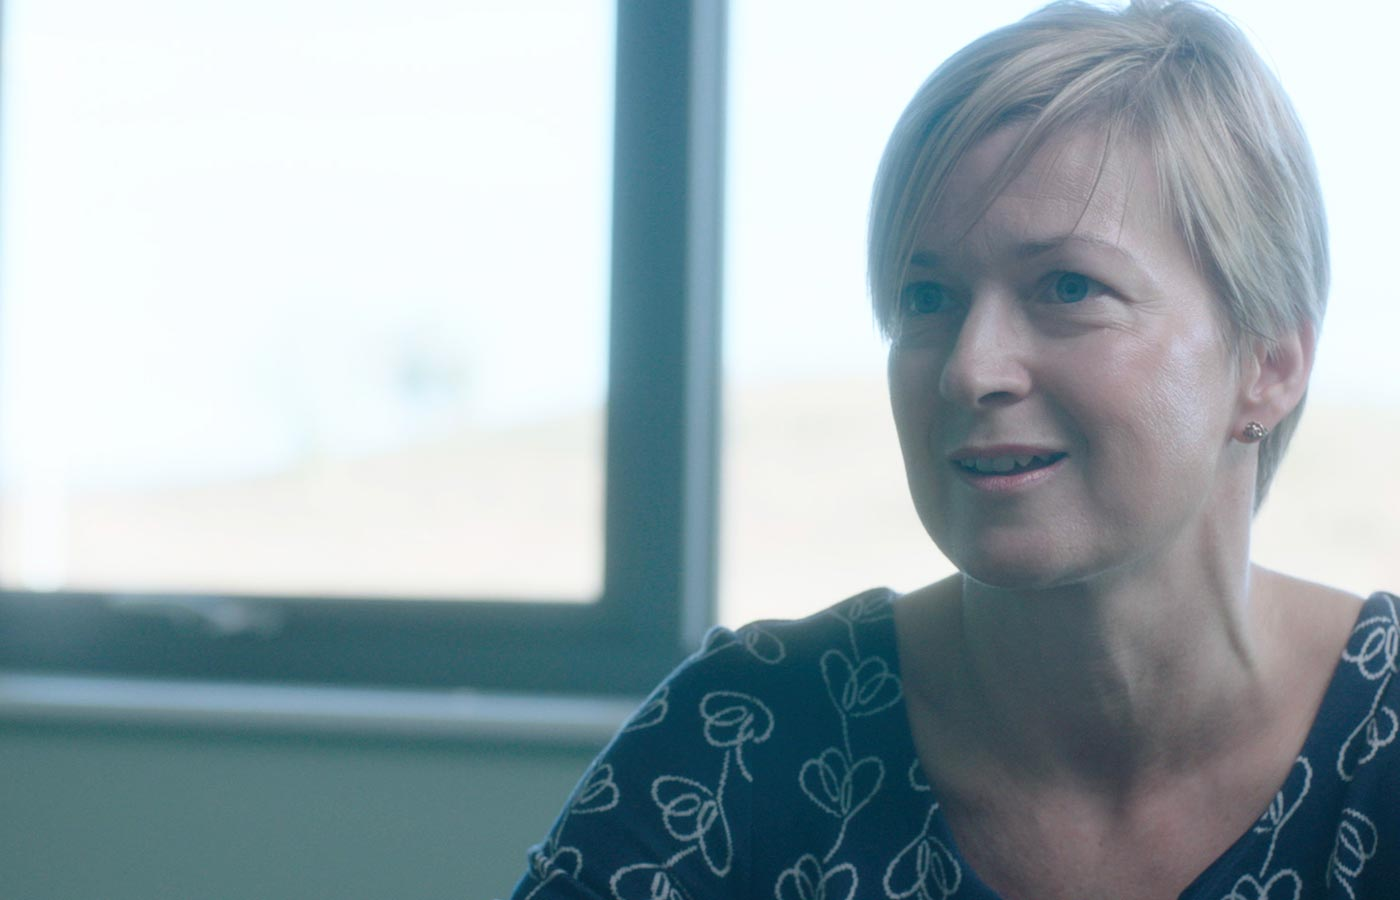
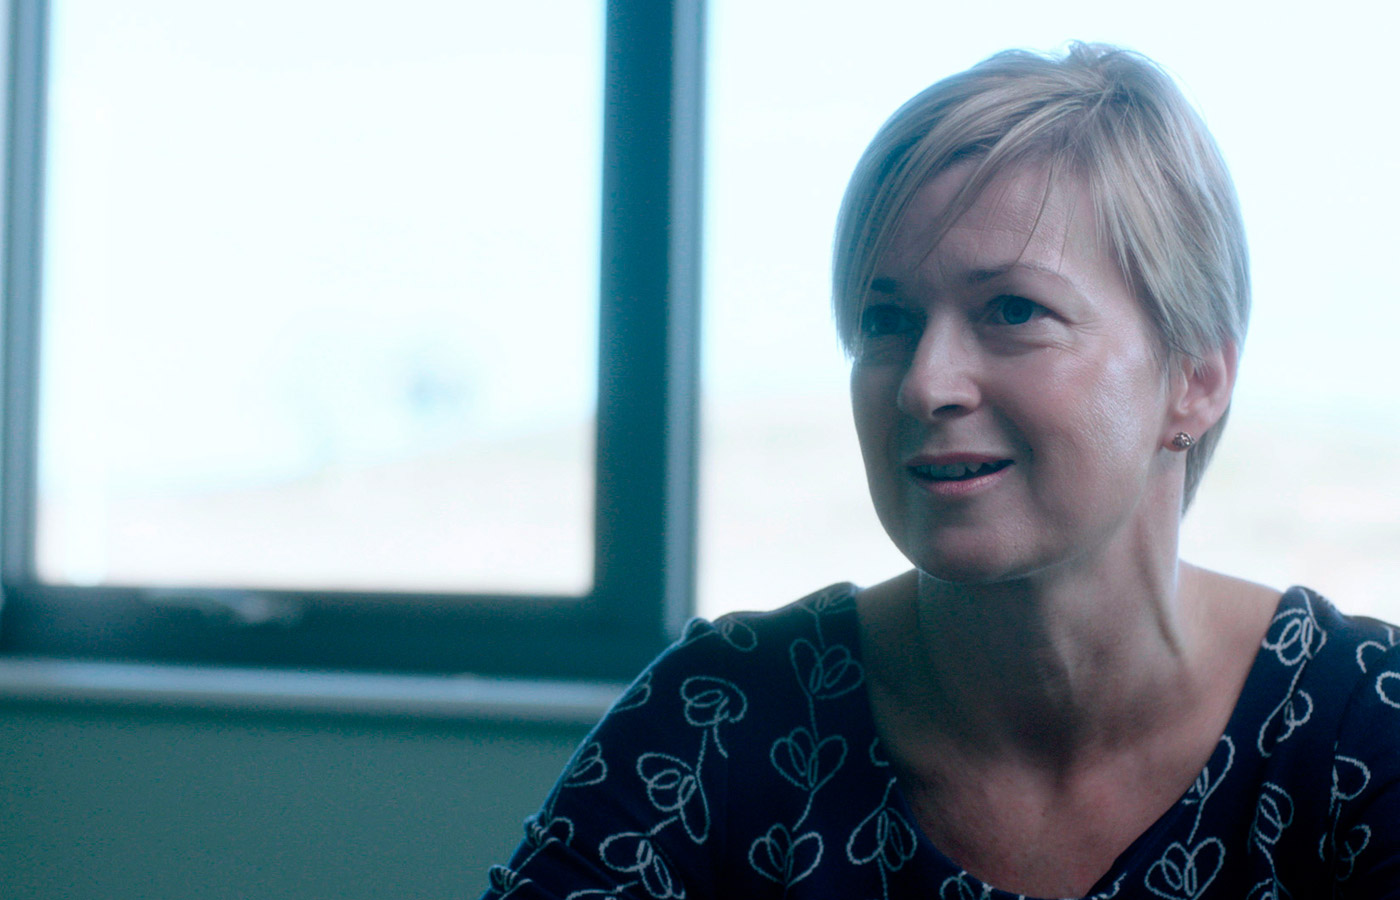
updates imagery, adds additional employe-laura imagery and styles

diff --git a/dist/campaign/js/app.min.js b/dist/campaign/js/app.min.js
@@ -1,6 +1,3 @@
-/*! modernizr 3.6.0 (Custom Build) | MIT *
- * https://modernizr.com/download/?-cssmask-setclasses !*/
-!function(e,n,t){function r(e,n){return typeof e===n}function o(){var e,n,t,o,s,i,l;for(var a in S)if(S.hasOwnProperty(a)){if(e=[],n=S[a],n.name&&(e.push(n.name.toLowerCase()),n.options&&n.options.aliases&&n.options.aliases.length))for(t=0;t<n.options.aliases.length;t++)e.push(n.options.aliases[t].toLowerCase());for(o=r(n.fn,"function")?n.fn():n.fn,s=0;s<e.length;s++)i=e[s],l=i.split("."),1===l.length?Modernizr[l[0]]=o:(!Modernizr[l[0]]||Modernizr[l[0]]instanceof Boolean||(Modernizr[l[0]]=new Boolean(Modernizr[l[0]])),Modernizr[l[0]][l[1]]=o),C.push((o?"":"no-")+l.join("-"))}}function s(e){var n=_.className,t=Modernizr._config.classPrefix||"";if(x&&(n=n.baseVal),Modernizr._config.enableJSClass){var r=new RegExp("(^|\\s)"+t+"no-js(\\s|$)");n=n.replace(r,"$1"+t+"js$2")}Modernizr._config.enableClasses&&(n+=" "+t+e.join(" "+t),x?_.className.baseVal=n:_.className=n)}function i(e,n){return!!~(""+e).indexOf(n)}function l(){return"function"!=typeof n.createElement?n.createElement(arguments[0]):x?n.createElementNS.call(n,"http://www.w3.org/2000/svg",arguments[0]):n.createElement.apply(n,arguments)}function a(e){return e.replace(/([a-z])-([a-z])/g,function(e,n,t){return n+t.toUpperCase()}).replace(/^-/,"")}function u(e,n){return function(){return e.apply(n,arguments)}}function f(e,n,t){var o;for(var s in e)if(e[s]in n)return t===!1?e[s]:(o=n[e[s]],r(o,"function")?u(o,t||n):o);return!1}function c(e){return e.replace(/([A-Z])/g,function(e,n){return"-"+n.toLowerCase()}).replace(/^ms-/,"-ms-")}function p(n,t,r){var o;if("getComputedStyle"in e){o=getComputedStyle.call(e,n,t);var s=e.console;if(null!==o)r&&(o=o.getPropertyValue(r));else if(s){var i=s.error?"error":"log";s[i].call(s,"getComputedStyle returning null, its possible modernizr test results are inaccurate")}}else o=!t&&n.currentStyle&&n.currentStyle[r];return o}function d(){var e=n.body;return e||(e=l(x?"svg":"body"),e.fake=!0),e}function m(e,t,r,o){var s,i,a,u,f="modernizr",c=l("div"),p=d();if(parseInt(r,10))for(;r--;)a=l("div"),a.id=o?o[r]:f+(r+1),c.appendChild(a);return s=l("style"),s.type="text/css",s.id="s"+f,(p.fake?p:c).appendChild(s),p.appendChild(c),s.styleSheet?s.styleSheet.cssText=e:s.appendChild(n.createTextNode(e)),c.id=f,p.fake&&(p.style.background="",p.style.overflow="hidden",u=_.style.overflow,_.style.overflow="hidden",_.appendChild(p)),i=t(c,e),p.fake?(p.parentNode.removeChild(p),_.style.overflow=u,_.offsetHeight):c.parentNode.removeChild(c),!!i}function y(n,r){var o=n.length;if("CSS"in e&&"supports"in e.CSS){for(;o--;)if(e.CSS.supports(c(n[o]),r))return!0;return!1}if("CSSSupportsRule"in e){for(var s=[];o--;)s.push("("+c(n[o])+":"+r+")");return s=s.join(" or "),m("@supports ("+s+") { #modernizr { position: absolute; } }",function(e){return"absolute"==p(e,null,"position")})}return t}function v(e,n,o,s){function u(){c&&(delete N.style,delete N.modElem)}if(s=r(s,"undefined")?!1:s,!r(o,"undefined")){var f=y(e,o);if(!r(f,"undefined"))return f}for(var c,p,d,m,v,g=["modernizr","tspan","samp"];!N.style&&g.length;)c=!0,N.modElem=l(g.shift()),N.style=N.modElem.style;for(d=e.length,p=0;d>p;p++)if(m=e[p],v=N.style[m],i(m,"-")&&(m=a(m)),N.style[m]!==t){if(s||r(o,"undefined"))return u(),"pfx"==n?m:!0;try{N.style[m]=o}catch(h){}if(N.style[m]!=v)return u(),"pfx"==n?m:!0}return u(),!1}function g(e,n,t,o,s){var i=e.charAt(0).toUpperCase()+e.slice(1),l=(e+" "+P.join(i+" ")+i).split(" ");return r(n,"string")||r(n,"undefined")?v(l,n,o,s):(l=(e+" "+z.join(i+" ")+i).split(" "),f(l,n,t))}function h(e,n,r){return g(e,t,t,n,r)}var C=[],S=[],w={_version:"3.6.0",_config:{classPrefix:"",enableClasses:!0,enableJSClass:!0,usePrefixes:!0},_q:[],on:function(e,n){var t=this;setTimeout(function(){n(t[e])},0)},addTest:function(e,n,t){S.push({name:e,fn:n,options:t})},addAsyncTest:function(e){S.push({name:null,fn:e})}},Modernizr=function(){};Modernizr.prototype=w,Modernizr=new Modernizr;var _=n.documentElement,x="svg"===_.nodeName.toLowerCase(),b="Moz O ms Webkit",P=w._config.usePrefixes?b.split(" "):[];w._cssomPrefixes=P;var z=w._config.usePrefixes?b.toLowerCase().split(" "):[];w._domPrefixes=z;var E={elem:l("modernizr")};Modernizr._q.push(function(){delete E.elem});var N={style:E.elem.style};Modernizr._q.unshift(function(){delete N.style}),w.testAllProps=g,w.testAllProps=h,Modernizr.addTest("cssmask",h("maskRepeat","repeat-x",!0)),o(),s(C),delete w.addTest,delete w.addAsyncTest;for(var k=0;k<Modernizr._q.length;k++)Modernizr._q[k]();e.Modernizr=Modernizr}(window,document);
 
 var headers = document.getElementsByClassName("header"),
     header = headers[0];
@@ -20,3 +17,7 @@ function activeHeader() {
     header.className = "header";
   }
 }
+
+/*! modernizr 3.6.0 (Custom Build) | MIT *
+ * https://modernizr.com/download/?-cssmask-setclasses !*/
+!function(e,n,t){function r(e,n){return typeof e===n}function o(){var e,n,t,o,s,i,l;for(var a in S)if(S.hasOwnProperty(a)){if(e=[],n=S[a],n.name&&(e.push(n.name.toLowerCase()),n.options&&n.options.aliases&&n.options.aliases.length))for(t=0;t<n.options.aliases.length;t++)e.push(n.options.aliases[t].toLowerCase());for(o=r(n.fn,"function")?n.fn():n.fn,s=0;s<e.length;s++)i=e[s],l=i.split("."),1===l.length?Modernizr[l[0]]=o:(!Modernizr[l[0]]||Modernizr[l[0]]instanceof Boolean||(Modernizr[l[0]]=new Boolean(Modernizr[l[0]])),Modernizr[l[0]][l[1]]=o),C.push((o?"":"no-")+l.join("-"))}}function s(e){var n=_.className,t=Modernizr._config.classPrefix||"";if(x&&(n=n.baseVal),Modernizr._config.enableJSClass){var r=new RegExp("(^|\\s)"+t+"no-js(\\s|$)");n=n.replace(r,"$1"+t+"js$2")}Modernizr._config.enableClasses&&(n+=" "+t+e.join(" "+t),x?_.className.baseVal=n:_.className=n)}function i(e,n){return!!~(""+e).indexOf(n)}function l(){return"function"!=typeof n.createElement?n.createElement(arguments[0]):x?n.createElementNS.call(n,"http://www.w3.org/2000/svg",arguments[0]):n.createElement.apply(n,arguments)}function a(e){return e.replace(/([a-z])-([a-z])/g,function(e,n,t){return n+t.toUpperCase()}).replace(/^-/,"")}function u(e,n){return function(){return e.apply(n,arguments)}}function f(e,n,t){var o;for(var s in e)if(e[s]in n)return t===!1?e[s]:(o=n[e[s]],r(o,"function")?u(o,t||n):o);return!1}function c(e){return e.replace(/([A-Z])/g,function(e,n){return"-"+n.toLowerCase()}).replace(/^ms-/,"-ms-")}function p(n,t,r){var o;if("getComputedStyle"in e){o=getComputedStyle.call(e,n,t);var s=e.console;if(null!==o)r&&(o=o.getPropertyValue(r));else if(s){var i=s.error?"error":"log";s[i].call(s,"getComputedStyle returning null, its possible modernizr test results are inaccurate")}}else o=!t&&n.currentStyle&&n.currentStyle[r];return o}function d(){var e=n.body;return e||(e=l(x?"svg":"body"),e.fake=!0),e}function m(e,t,r,o){var s,i,a,u,f="modernizr",c=l("div"),p=d();if(parseInt(r,10))for(;r--;)a=l("div"),a.id=o?o[r]:f+(r+1),c.appendChild(a);return s=l("style"),s.type="text/css",s.id="s"+f,(p.fake?p:c).appendChild(s),p.appendChild(c),s.styleSheet?s.styleSheet.cssText=e:s.appendChild(n.createTextNode(e)),c.id=f,p.fake&&(p.style.background="",p.style.overflow="hidden",u=_.style.overflow,_.style.overflow="hidden",_.appendChild(p)),i=t(c,e),p.fake?(p.parentNode.removeChild(p),_.style.overflow=u,_.offsetHeight):c.parentNode.removeChild(c),!!i}function y(n,r){var o=n.length;if("CSS"in e&&"supports"in e.CSS){for(;o--;)if(e.CSS.supports(c(n[o]),r))return!0;return!1}if("CSSSupportsRule"in e){for(var s=[];o--;)s.push("("+c(n[o])+":"+r+")");return s=s.join(" or "),m("@supports ("+s+") { #modernizr { position: absolute; } }",function(e){return"absolute"==p(e,null,"position")})}return t}function v(e,n,o,s){function u(){c&&(delete N.style,delete N.modElem)}if(s=r(s,"undefined")?!1:s,!r(o,"undefined")){var f=y(e,o);if(!r(f,"undefined"))return f}for(var c,p,d,m,v,g=["modernizr","tspan","samp"];!N.style&&g.length;)c=!0,N.modElem=l(g.shift()),N.style=N.modElem.style;for(d=e.length,p=0;d>p;p++)if(m=e[p],v=N.style[m],i(m,"-")&&(m=a(m)),N.style[m]!==t){if(s||r(o,"undefined"))return u(),"pfx"==n?m:!0;try{N.style[m]=o}catch(h){}if(N.style[m]!=v)return u(),"pfx"==n?m:!0}return u(),!1}function g(e,n,t,o,s){var i=e.charAt(0).toUpperCase()+e.slice(1),l=(e+" "+P.join(i+" ")+i).split(" ");return r(n,"string")||r(n,"undefined")?v(l,n,o,s):(l=(e+" "+z.join(i+" ")+i).split(" "),f(l,n,t))}function h(e,n,r){return g(e,t,t,n,r)}var C=[],S=[],w={_version:"3.6.0",_config:{classPrefix:"",enableClasses:!0,enableJSClass:!0,usePrefixes:!0},_q:[],on:function(e,n){var t=this;setTimeout(function(){n(t[e])},0)},addTest:function(e,n,t){S.push({name:e,fn:n,options:t})},addAsyncTest:function(e){S.push({name:null,fn:e})}},Modernizr=function(){};Modernizr.prototype=w,Modernizr=new Modernizr;var _=n.documentElement,x="svg"===_.nodeName.toLowerCase(),b="Moz O ms Webkit",P=w._config.usePrefixes?b.split(" "):[];w._cssomPrefixes=P;var z=w._config.usePrefixes?b.toLowerCase().split(" "):[];w._domPrefixes=z;var E={elem:l("modernizr")};Modernizr._q.push(function(){delete E.elem});var N={style:E.elem.style};Modernizr._q.unshift(function(){delete N.style}),w.testAllProps=g,w.testAllProps=h,Modernizr.addTest("cssmask",h("maskRepeat","repeat-x",!0)),o(),s(C),delete w.addTest,delete w.addAsyncTest;for(var k=0;k<Modernizr._q.length;k++)Modernizr._q[k]();e.Modernizr=Modernizr}(window,document);

diff --git a/src/campaign/sass/components/_card-stories.scss b/src/campaign/sass/components/_card-stories.scss
@@ -122,6 +122,7 @@
 .card-stories__img--apprentice-ella { background-image: url("../images/apprentice/ella-card-1.jpg") }
 .card-stories__img--apprentice-alim { background-image: url("../images/apprentice/alim-card-1.jpg") }
 .card-stories__img--apprentice-hozanna { background-image: url("../images/apprentice/hozanna-card-1.jpg") }
-.card-stories__img--employer-annie { background-image: url("../images/employer/annie-card-1.jpg"); background-position: 20% 30%; }
+.card-stories__img--employer-annie { background-image: url("../images/employer/annie-card-1.jpg")}
 .card-stories__img--employer-gail { background-image: url("../images/employer/gail-card-1.jpg") }
 .card-stories__img--employer-bendy { background-image: url("../images/employer/bendy-card-1.jpg") }
+.card-stories__img--employer-laura { background-image: url("../images/employer/laura-card-1.jpg") }

diff --git a/dist/campaign/css/screen.css b/dist/campaign/css/screen.css
@@ -2144,14 +2144,16 @@ p {
   background-image: url("../images/apprentice/hozanna-card-1.jpg"); }
 
 .card-stories__img--employer-annie {
-  background-image: url("../images/employer/annie-card-1.jpg");
-  background-position: 20% 30%; }
+  background-image: url("../images/employer/annie-card-1.jpg"); }
 
 .card-stories__img--employer-gail {
   background-image: url("../images/employer/gail-card-1.jpg"); }
 
 .card-stories__img--employer-bendy {
   background-image: url("../images/employer/bendy-card-1.jpg"); }
+
+.card-stories__img--employer-laura {
+  background-image: url("../images/employer/laura-card-1.jpg"); }
 
 .checkboxes__item {
   font-family: nobel, sans-serif;
